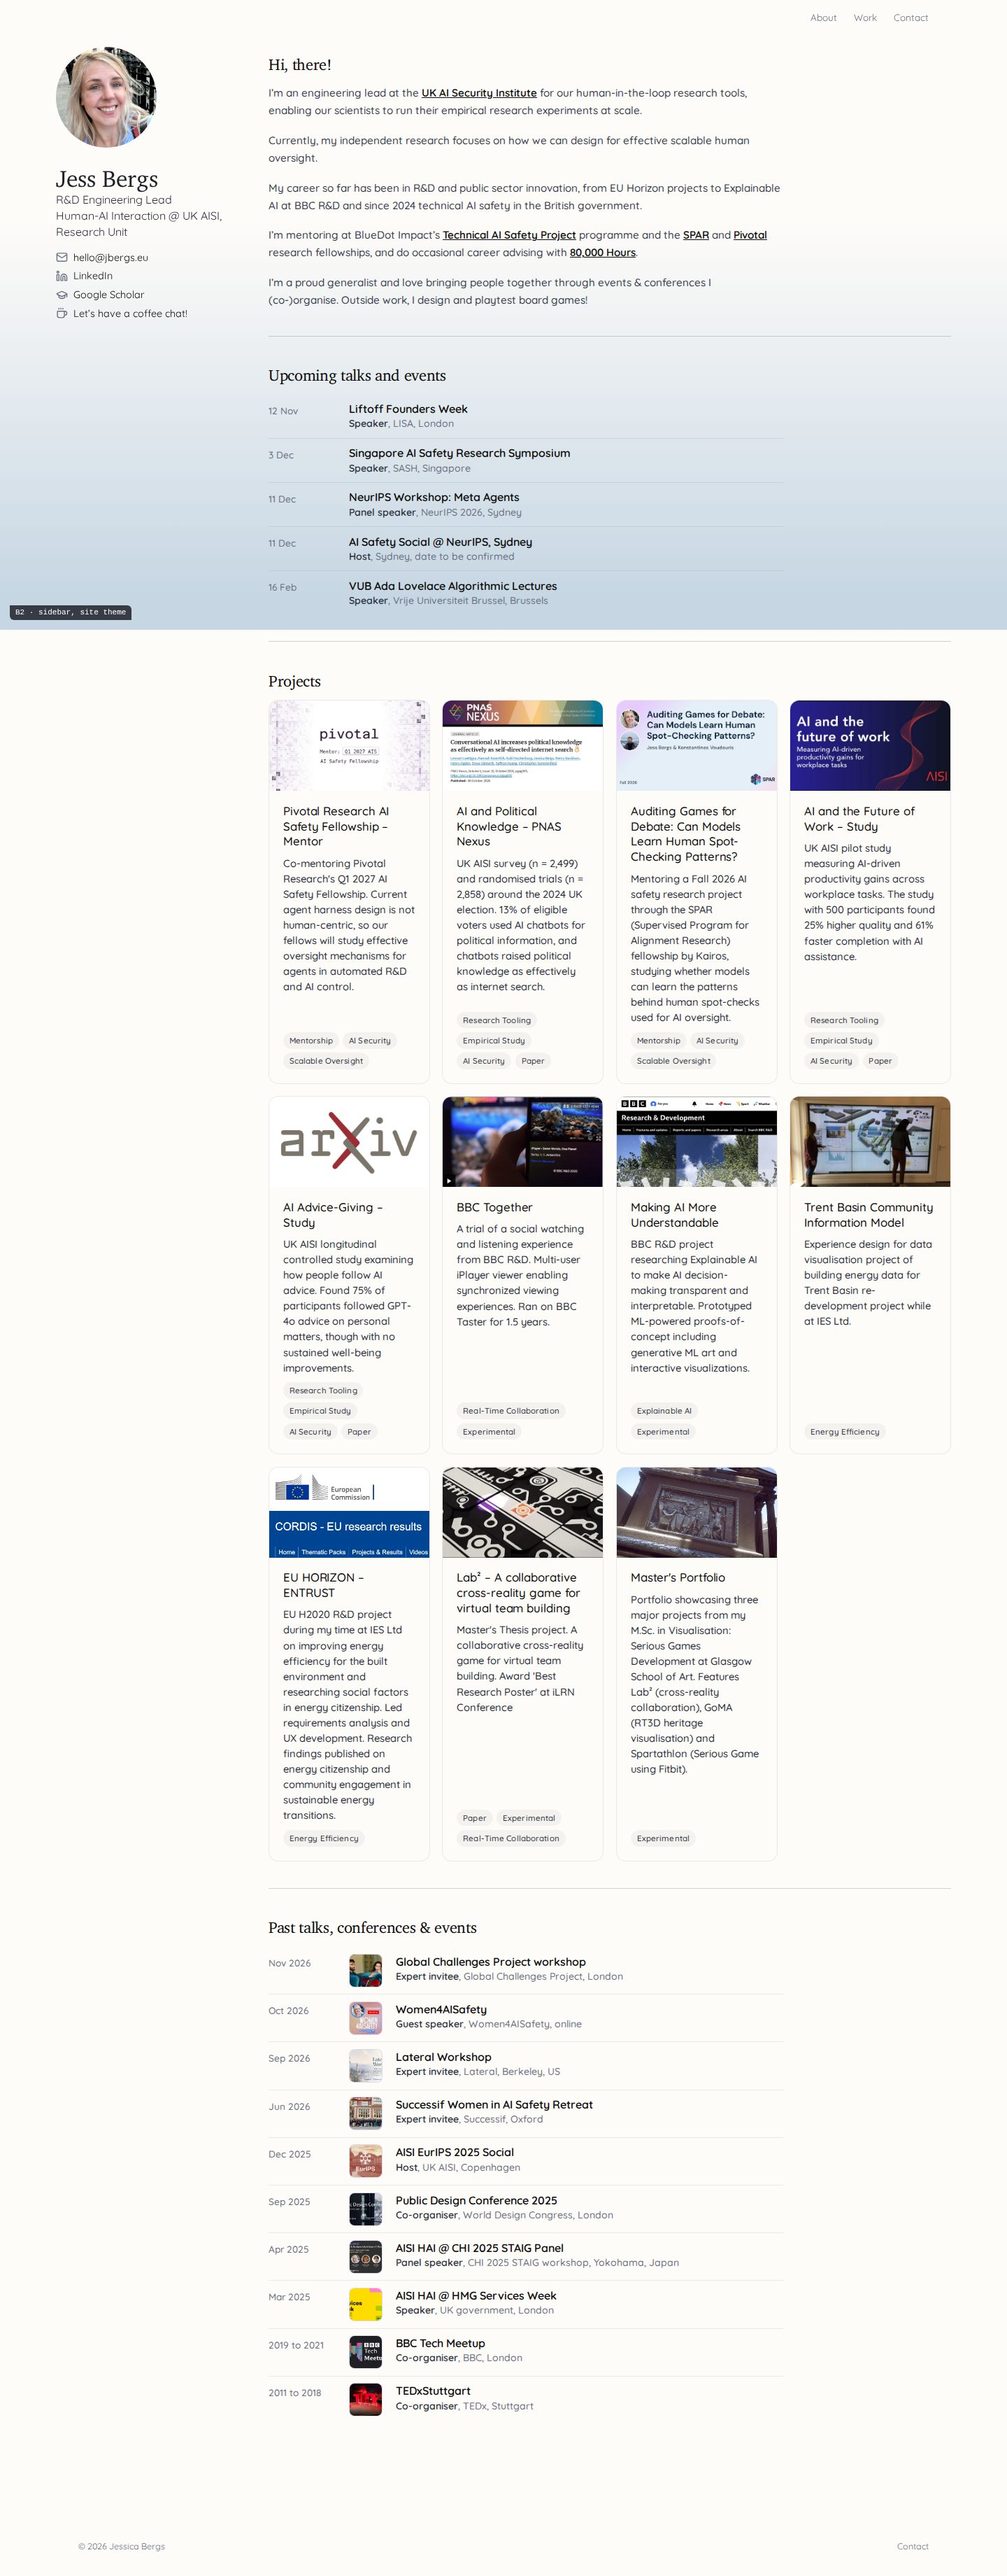
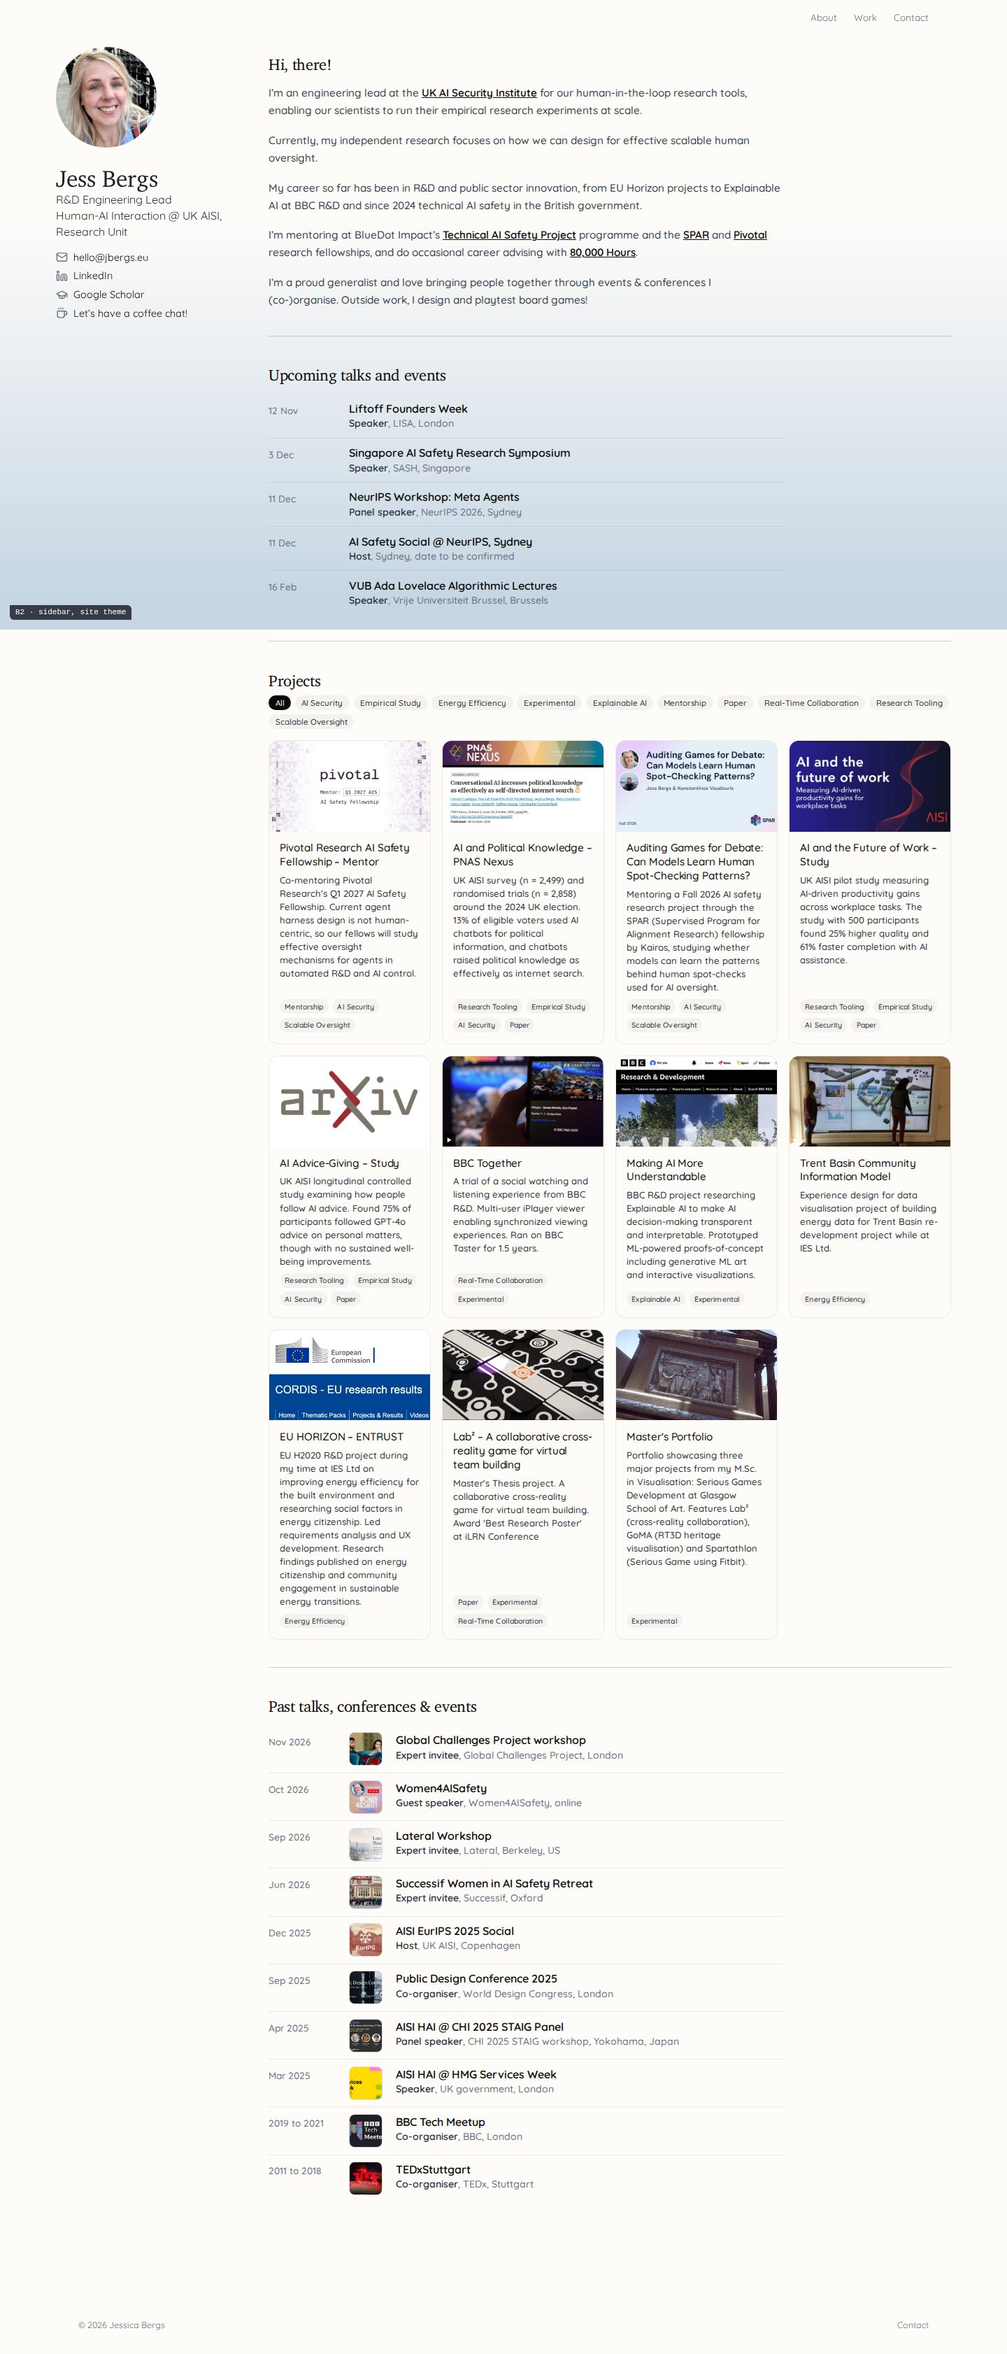
design: smaller tile type and compact filter pills

Changed region(s): [[0.0, 0.0312, 1.0, 0.9361], [0.0625, 0.0, 0.1875, 0.1248], [0.2812, 0.8113, 0.3125, 0.9361]]

diff --git a/docs/design/2026-11-academic-concepts/b2-sidebar-site-theme.html b/docs/design/2026-11-academic-concepts/b2-sidebar-site-theme.html
@@ -42,7 +42,14 @@
   .row .m { display: block; font-size: .88rem; font-weight: 500; color: var(--color-ink-mute); margin-top: .05rem; }
   .row .m b { font-weight: 600; color: var(--color-ink-soft); }
 
-  .tiles { display: grid; grid-template-columns: repeat(4, minmax(0, 1fr)); gap: 1.1rem; }
+  .tiles { display: grid; grid-template-columns: repeat(4, minmax(0, 1fr)); gap: 1rem; }
+  /* the tiles are narrower here than on the live site, so the type steps down with them */
+  .tiles .project-card__body { padding: .85rem .95rem 1rem; gap: .45rem; }
+  .tiles .project-card__title { font-size: .95rem; line-height: 1.3; }
+  .tiles .project-card__desc { font-size: .82rem; line-height: 1.45; font-weight: 500; }
+  .tiles .project-card__tag { font-size: .66rem; padding: .14rem .45rem; }
+  .filters { display: flex; flex-wrap: wrap; gap: .35rem; margin: -.4rem 0 1rem; }
+  .filters .filter-pill { padding: .2rem .6rem; font-size: .72rem; }
   .more { margin-top: 1.1rem; font-size: .9rem; }
   .more a { color: var(--color-ink-mute); }
 
@@ -90,6 +97,7 @@
     <hr class="rule">
     <section id="work">
       <h2 class="section-h2">Projects</h2>
+      <div class="filters" id="filters"></div>
       <div class="tiles" id="tiles"></div>
     </section>
     <hr class="rule">
@@ -113,12 +121,17 @@
   ];
   document.getElementById('up').innerHTML = UP.map((u) => `
     <div class="row"><div class="d">${esc(u.date)}</div><div class="t"><a class="ti" href="${u.href}">${esc(u.title)}</a><span class="m"><b>${esc(u.role)}</b>${u.org ? ', ' + esc(u.org) : ''}${u.place ? ', ' + esc(u.place) : ''}${u.tbc ? ', date to be confirmed' : ''}${u.note ? ', ' + esc(u.note) : ''}</span></div></div>`).join('');
-  document.getElementById('tiles').innerHTML = TILE_PROJECTS.map((p) => `
+  const cats = [...new Set(TILE_PROJECTS.flatMap((p) => p.categories || []))].sort();
+  let on = [];
+  const drawFilters = () => { document.getElementById('filters').innerHTML = [`<button type="button" class="filter-pill${on.length ? '' : ' filter-pill--on'}" data-c="">All</button>`, ...cats.map((c) => `<button type="button" class="filter-pill${on.includes(c) ? ' filter-pill--on' : ''}" data-c="${esc(c)}">${esc(c)}</button>`)].join('');
+    document.querySelectorAll('#filters .filter-pill').forEach((b) => b.addEventListener('click', () => { const c = b.dataset.c; on = c ? (on.includes(c) ? on.filter((x) => x !== c) : [...on, c]) : []; drawFilters(); drawTiles(); })); };
+  const drawTiles = () => { document.getElementById('tiles').innerHTML = TILE_PROJECTS.filter((p) => !on.length || (p.categories || []).some((c) => on.includes(c))).map((p) => `
     <a class="project-card" href="${p.link || '#'}" target="_blank" rel="noopener noreferrer">
       <div class="project-card__media"><img src="${p.image}" alt="" loading="lazy"></div>
       <div class="project-card__body"><h3 class="project-card__title">${esc(p.title)}</h3><p class="project-card__desc">${esc(p.description)}</p>
         <div class="project-card__tags">${(p.categories || []).map((c) => `<span class="project-card__tag">${esc(c)}</span>`).join('')}</div></div>
-    </a>`).join('');
+    </a>`).join(''); };
+  drawFilters(); drawTiles();
   document.getElementById('past').innerHTML = TILE_TALKS.map((t) => `
     <div class="row pic"><div class="d">${esc(t.when)}</div><figure><img src="${t.image}" alt="" loading="lazy"></figure><div class="t"><a class="ti" href="${t.link || '#'}">${esc(t.title)}</a><span class="m"><b>${esc(t.role)}</b>${t.org ? ', ' + esc(t.org) : ''}${t.place ? ', ' + esc(t.place) : ''}</span></div></div>`).join('');
   const hdr = document.getElementById('hdr'); const onScroll = () => hdr.classList.toggle('is-scrolled', window.scrollY > 8); onScroll(); addEventListener('scroll', onScroll, { passive: true });

diff --git a/docs/design/2026-11-academic-concepts/site-theme.css b/docs/design/2026-11-academic-concepts/site-theme.css
@@ -45,6 +45,9 @@ body::before { content: ''; position: fixed; inset: 14px; border-radius: 6px; po
 .project-card__desc { font-size: .92rem; font-weight: 500; color: var(--color-ink-soft); line-height: 1.5; flex: 1; }
 .project-card__tags { display: flex; flex-wrap: wrap; gap: .35rem; }
 .project-card__tag { font-size: .72rem; font-weight: 500; letter-spacing: .01em; color: var(--color-ink-soft); background: rgba(10, 10, 10, 0.04); padding: .18rem .55rem; border-radius: 999px; }
+.filter-pill { display: inline-flex; align-items: center; padding: .3rem .75rem; border-radius: 999px; background: rgba(10, 10, 10, 0.04); color: var(--color-ink-soft); font-size: .78rem; font-weight: 500; border: 0; cursor: pointer; transition: background .15s ease, color .15s ease; font-family: var(--font-sans); }
+.filter-pill:hover { background: rgba(10, 10, 10, 0.08); color: var(--color-ink); }
+.filter-pill--on, .filter-pill--on:hover { background: var(--color-ink); color: #fff; }
 .site-footer { margin-top: 4rem; padding: 2rem 0; text-align: center; font-size: .78rem; color: var(--color-ink-mute); display: flex; flex-wrap: wrap; justify-content: space-between; gap: 1rem; }
 .site-footer a { color: var(--color-ink-mute); text-decoration: none; }
 .site-footer a:hover { text-decoration: underline; }
